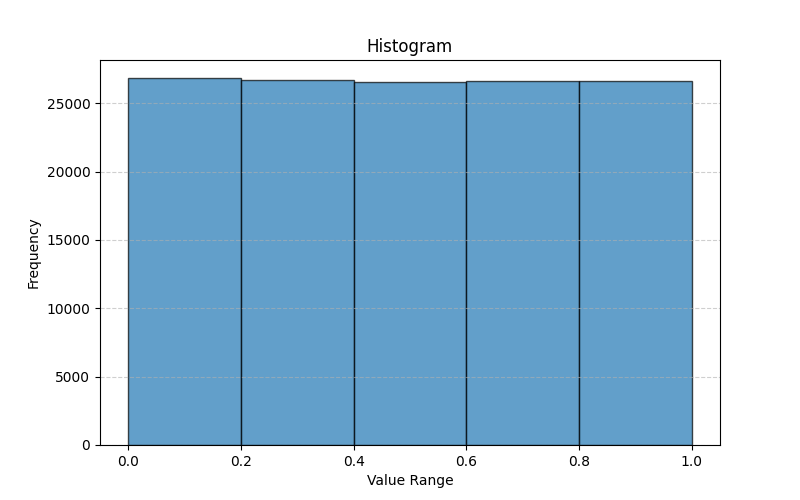
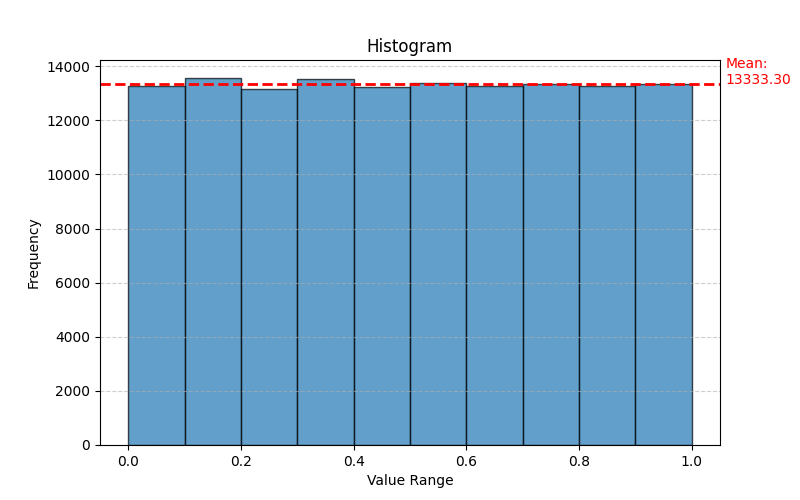
Adding average line

diff --git a/src/histogram.py b/src/histogram.py
@@ -31,6 +31,7 @@ class Histogram:
         self.range_min = range_min
         self.range_max = range_max
         self.hist = [0] * interval_nb
+        self.mean = len(self.data)/self.interval_nb
         
         self._create()
 
@@ -71,5 +72,10 @@ class Histogram:
         plt.title("Histogram")
         plt.grid(axis="y", linestyle="--", alpha=0.6)
 
+        plt.axhline(self.mean, color='red', linestyle='dashed', linewidth=2)
+        
+        plt.text(1.06, self.mean, 'Mean:\n{:.2f}'.format(self.mean), color="red")
+        
         plt.savefig(PathFinder.get_complet_path("images/my_histogram.png"))
+        
         plt.close()

diff --git a/src/main.py b/src/main.py
@@ -20,7 +20,7 @@ if __name__ == "__main__":
             print("No more number in the list")
             break
 
-    histogram = Histogram(data=data, interval_nb = 5)
+    histogram = Histogram(data=data, interval_nb = 10)
     histogram.save_plot()
 
     khi_square = KhiSquareTest.from_distribution(histogram.hist)
